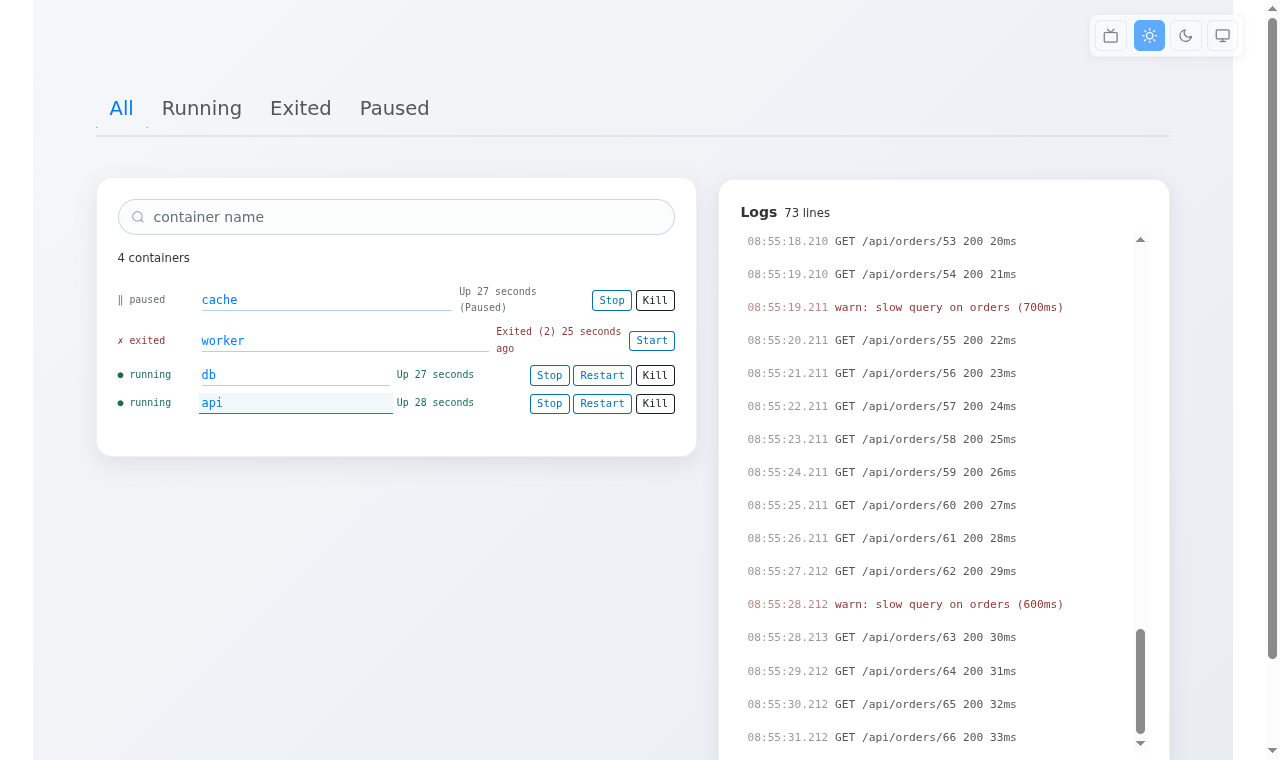
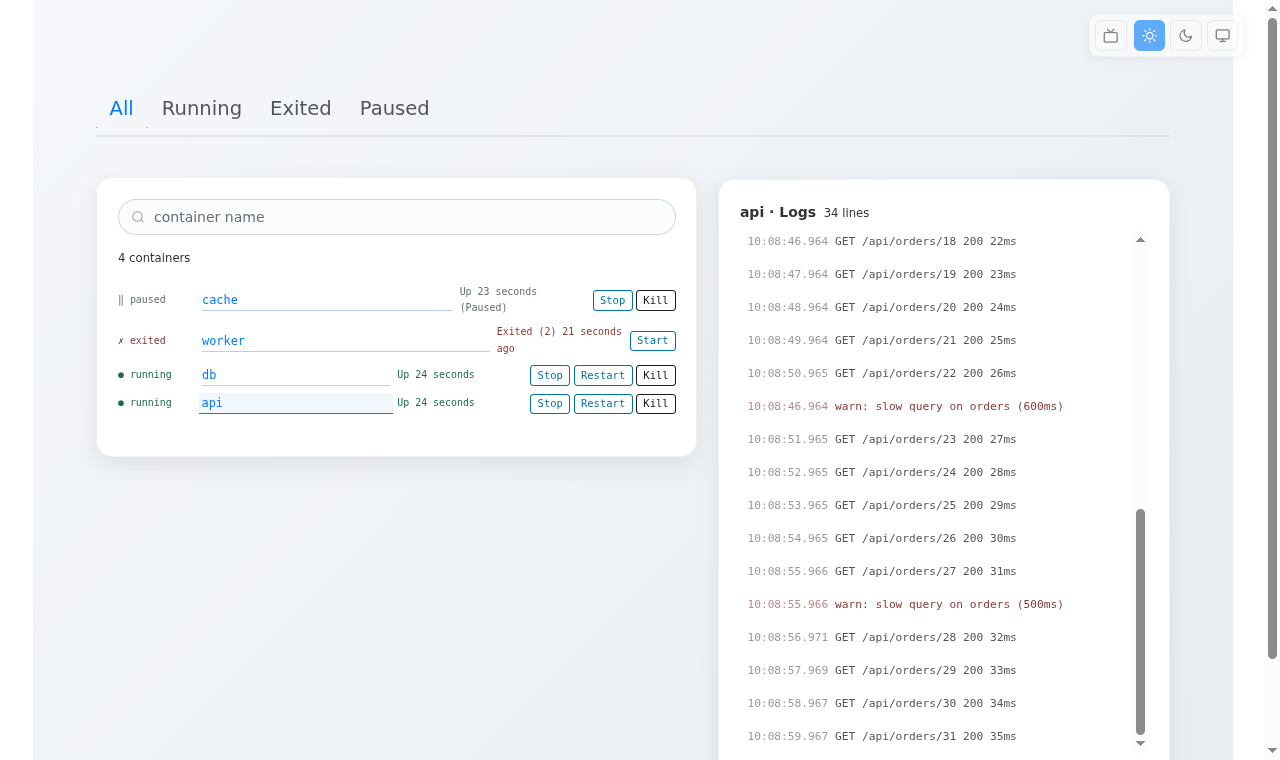
containers: name the container in the logs pane; Stop spins until done
With tinkerdown 0.7.1, the logs pane heads with the followed container's
name ({{with .Params.name}}), and a pressed button shows a spinner until
Docker has finished. TestContainers checks both; the screenshots show
the named pane. The apps now need tinkerdown 0.7.1.

Claude-Session: https://claude.ai/code/session_01H17jLZ8QrVBa63r4MNcuSH

diff --git a/e2e/containers_test.go b/e2e/containers_test.go
@@ -199,7 +199,12 @@ func TestContainers(t *testing.T) {
 	})
 
 	t.Run("Stop moves a row to exited, and Start brings it back", func(t *testing.T) {
-		click(t, "db", "stop")
+		// The button spins from the click until docker stop returns.
+		var busy string
+		if err := run(chromedp.Evaluate(`(b => (b.click(), b.getAttribute("aria-busy")))(document.querySelector('ol.ctr button[name="stop"][data-name="`+prefix+`db"]'))`, &busy)); err != nil || busy != "true" {
+			dump()
+			t.Fatalf("Stop's aria-busy right after the click = %q (err %v), want true", busy, err)
+		}
 		waitJS(t, "db exited", row("db")+`?.classList.contains("st-exited")`)
 		click(t, "db", "start")
 		waitJS(t, "db running again", row("db")+`?.classList.contains("st-running")`)
@@ -211,6 +216,7 @@ func TestContainers(t *testing.T) {
 			t.Fatal(err)
 		}
 		waitJS(t, "web's log lines", logMsgs+`.some(m => m.textContent.startsWith("web line"))`)
+		waitJS(t, "the pane naming web", `document.querySelector('[data-testid="log-title"]').textContent === "`+prefix+`web · Logs"`)
 		mark := fmt.Sprintf("marker-%d", time.Now().UnixNano())
 		docker("exec", prefix+"web", "sh", "-c", "echo "+mark+" > /proc/1/fd/1")
 		waitJS(t, "a line printed after opening", logMsgs+`.some(m => m.textContent === "`+mark+`")`)

diff --git a/containers/README.md b/containers/README.md
@@ -18,7 +18,7 @@ tinkerdown serve --allow-exec https://raw.githubusercontent.com/livetemplate/one
   --action 'kill=docker kill -- "$TD_name"'
 ```
 
-Then open http://localhost:8080. It needs tinkerdown 0.7.0 or later.
+Then open http://localhost:8080. It needs tinkerdown 0.7.1 or later.
 
 Each flag does one job:
 
@@ -38,8 +38,8 @@ To list fewer containers, add a filter to both `docker ps` and `docker events`, 
 |----|----|
 | See what's running | Pick **Running**, or search by name. |
 | Notice a crash | An exited container turns red and shows its exit code: `exited (137)`. |
-| Read a container's logs | Click its name. The logs pane follows new lines; scroll up to stop following, and back down to resume. |
-| Stop, start or restart one | Press the button on its row. A row shows only the buttons its state allows. |
+| Read a container's logs | Click its name, and the pane beside the list shows its logs under its name. It follows new lines; scroll up to stop following, and back down to resume. |
+| Stop, start or restart one | Press the button on its row. A row shows only the buttons its state allows, and a pressed button spins until Docker is done. |
 | Kill one | Press **Kill**. It asks first. |
 
 A removed container leaves the list. Links to a container's logs, such as `?name=web`, work only while that container is in the list, so a link from elsewhere can't start logs for a name you don't have.

diff --git a/containers/index.md b/containers/index.md
@@ -56,7 +56,7 @@ sources:
 
 ```lvt
 <aside class="logpane" lvt-source="logview" aria-label="Logs">
-  <header><b>Logs</b> <small data-testid="log-status">{{len .Data}} lines</small></header>
+  <header><b data-testid="log-title">{{with .Params.name}}{{.}} · {{end}}Logs</b> <small data-testid="log-status">{{len .Data}} lines</small></header>
   {{if .Error}}<p data-testid="log-error"><mark>{{.Error}}</mark></p>{{end}}
   {{if not .Data}}<p class="hint" data-testid="log-hint">Click a container's name to follow its logs.</p>{{end}}
   <ol class="log" data-testid="logs" lvt-fx:scroll="bottom-sticky">

diff --git a/AGENTS.md b/AGENTS.md
@@ -8,7 +8,7 @@ Each app in this repo is one page, `<app>/index.md`, served with tinkerdown stra
 brew install livetemplate/tap/tinkerdown
 ```
 
-Or, with Go 1.26 or later: `go install github.com/livetemplate/tinkerdown/cmd/tinkerdown@latest`. The apps need tinkerdown 0.7.0 or later; check with `tinkerdown version`.
+Or, with Go 1.26 or later: `go install github.com/livetemplate/tinkerdown/cmd/tinkerdown@latest`. The apps need tinkerdown 0.7.1 or later; check with `tinkerdown version`.
 
 ## 2. Ask the user which logs to follow
 

diff --git a/README.md b/README.md
@@ -18,7 +18,7 @@ A page served from a URL can't run commands or read files on its own. An app tha
 
 Setting an app up with a coding agent? Point it at [AGENTS.md](AGENTS.md).
 
-The apps need tinkerdown 0.7.0 or later:
+The apps need tinkerdown 0.7.1 or later:
 
 ```sh
 brew install livetemplate/tap/tinkerdown
